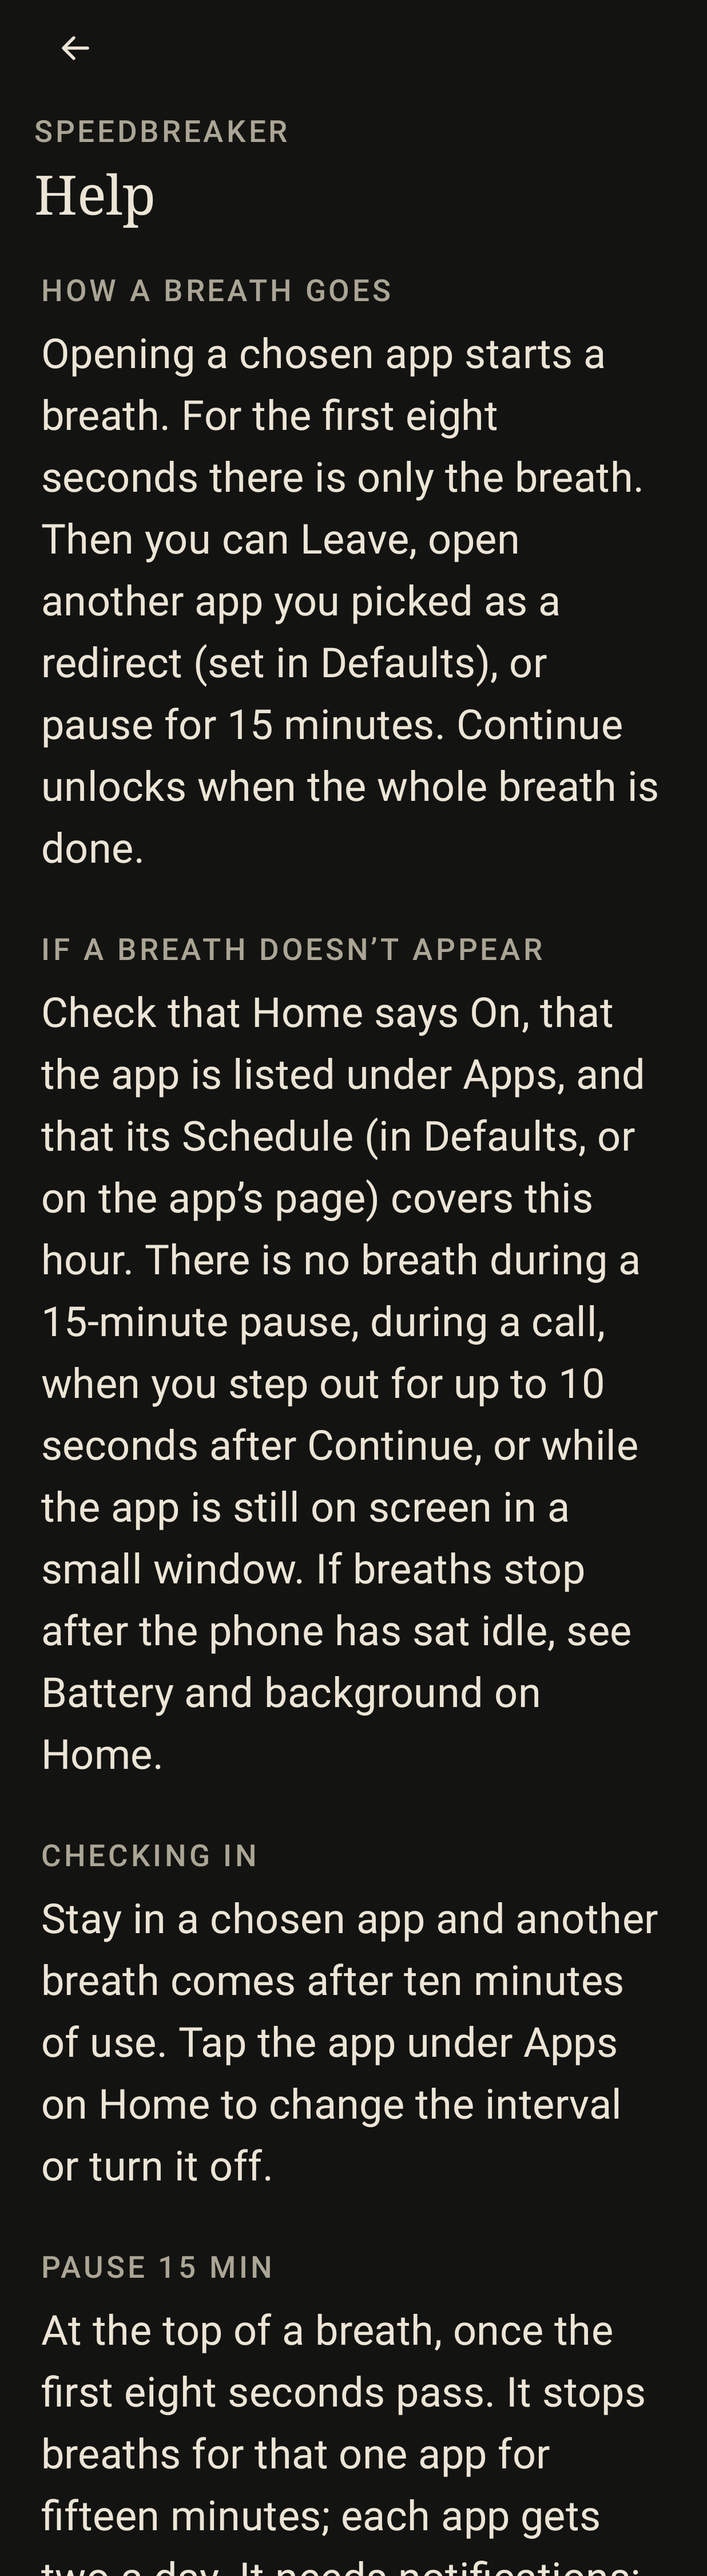
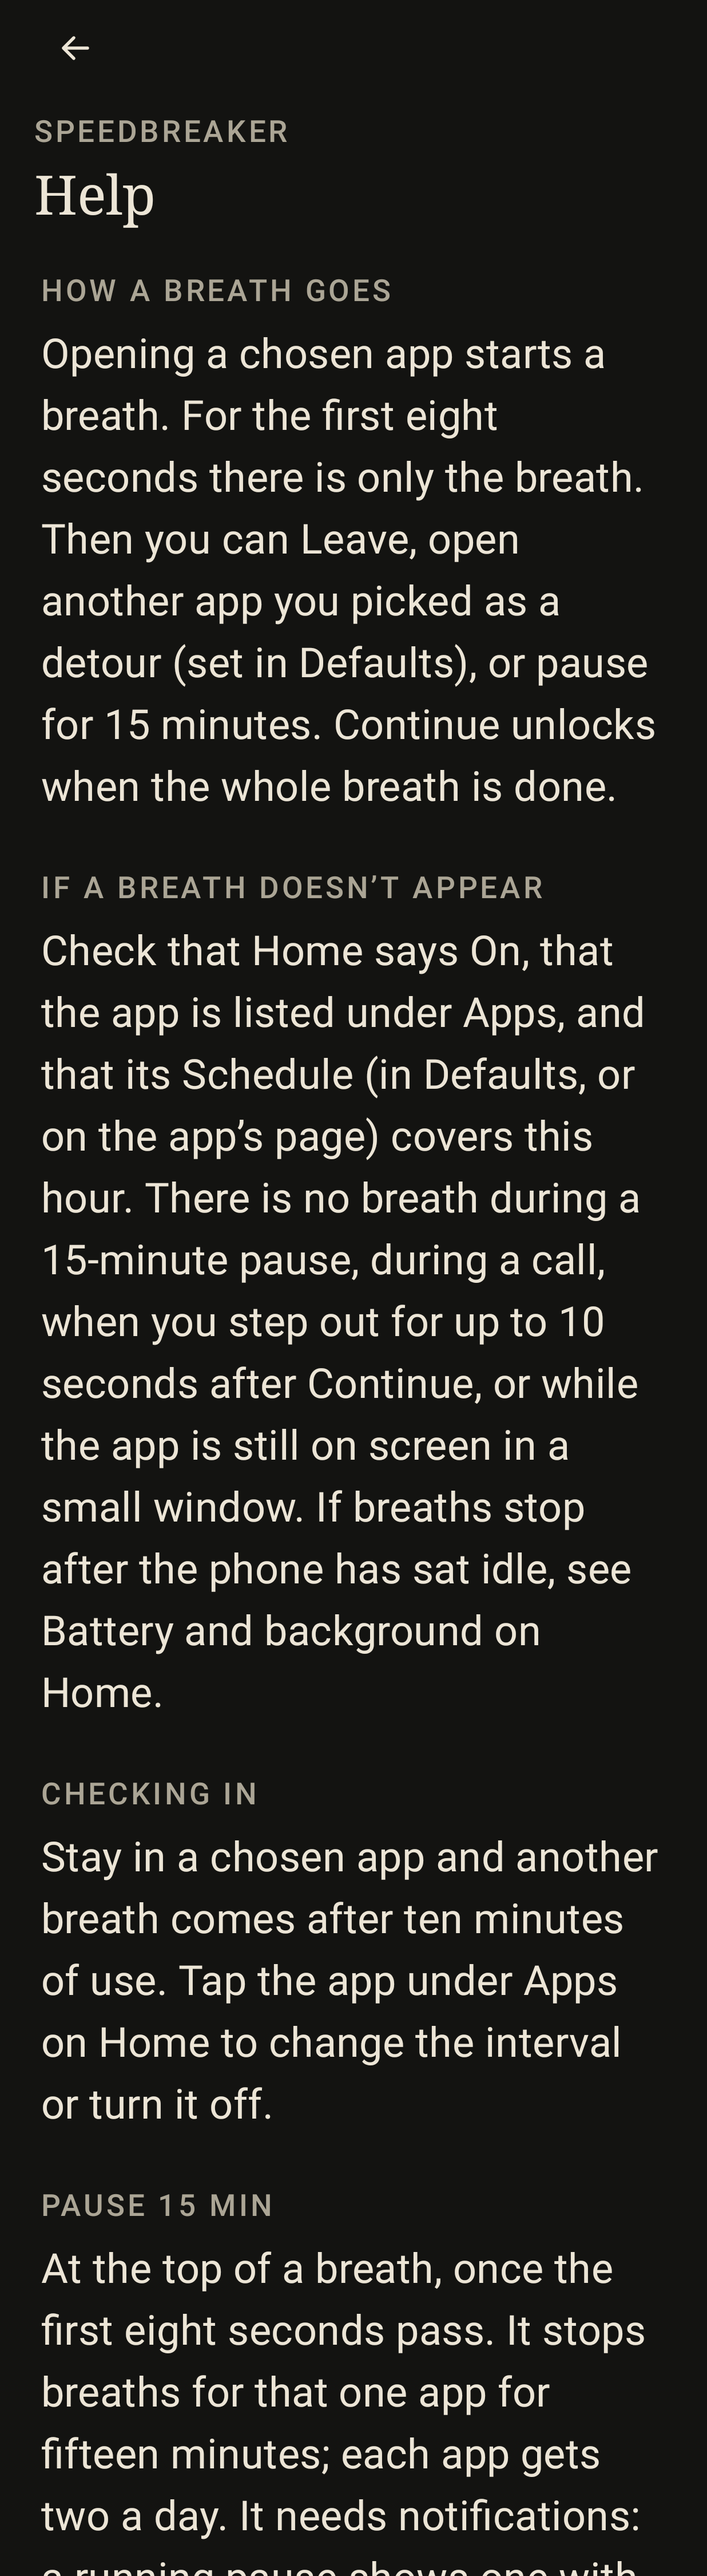
Name the service Speedbreaker and call redirects detours (#77)
* Name the service Speedbreaker and call redirects detours

The Accessibility entry is now the app's own name, the one a person looks
for in Android's list. Settings, summaries, Help and the guides say
Detours; the code and the saved settings keep `redirect`.

Closes #71. Not built locally: verified by hosted CI.

* docs: refresh gallery screenshots for the new names

Copied from the CI render of this branch.

* docs: name the service as older versions list it, and fix the Play packet step

Review on #77.

---------

Changed region(s): [[0.0615, 0.2489, 0.9223, 1.0]]

diff --git a/app/src/main/java/dev/burooj/speedbreaker/presentation/EditorScreens.kt b/app/src/main/java/dev/burooj/speedbreaker/presentation/EditorScreens.kt
@@ -73,7 +73,7 @@ internal fun DefaultsScreen(
     }
 
     Section(
-        title = "Redirects",
+        title = "Detours",
         footnote = "Up to four optional places to go instead, shown under Continue and Leave.",
     ) {
         RedirectSlots(settings.redirects, onRedirects)
@@ -188,11 +188,11 @@ internal fun AppSettingsScreen(
 
         val redirects = policy.redirects
         Section(
-            title = "Redirects",
+            title = "Detours",
             footnote = when {
-                redirects == null -> "Using the default redirects."
-                redirects.isEmpty() -> "No redirects for this app."
-                else -> "Replaces the default redirects for this app."
+                redirects == null -> "Using the default detours."
+                redirects.isEmpty() -> "No detours for this app."
+                else -> "Replaces the default detours for this app."
             },
         ) {
             ModeSwitch(
@@ -322,7 +322,7 @@ internal fun RedirectSlots(redirects: List<String>, onEdit: (() -> Unit)?) {
     if (onEdit != null) {
         RowDivider()
         NavRow(
-            title = if (filled.isEmpty()) "Choose redirect apps" else "Change redirects",
+            title = if (filled.isEmpty()) "Choose detour apps" else "Change detours",
             summary = "Choose up to four apps, or leave empty",
             onClick = onEdit,
         )

diff --git a/app/src/test/java/dev/burooj/speedbreaker/presentation/SummariesTest.kt b/app/src/test/java/dev/burooj/speedbreaker/presentation/SummariesTest.kt
@@ -8,7 +8,7 @@ import org.junit.Test
 class SummariesTest {
     @Test
     fun defaultsSummary_reportsEveryOptionalRedirectCount() {
-        val labels = listOf("no redirects", "1 redirect", "2 redirects", "3 redirects", "4 redirects")
+        val labels = listOf("no detours", "1 detour", "2 detours", "3 detours", "4 detours")
         for (count in 0..4) {
             val settings = dev.burooj.speedbreaker.model.Settings(redirects = (1..count).map { "alt.$it" })
             assertEquals("Always on · ${labels[count]}", defaultsSummary(settings, use24Hour = true))
@@ -23,7 +23,7 @@ class SummariesTest {
             schedule = startingSchedule(),
         )
         assertEquals("20-second breath", defaultsTitle(settings))
-        assertEquals("Weekdays · 09:00–17:00 · 1 redirect", defaultsSummary(settings, use24Hour = true))
+        assertEquals("Weekdays · 09:00–17:00 · 1 detour", defaultsSummary(settings, use24Hour = true))
     }
 
     @Test

diff --git a/app/src/main/java/dev/burooj/speedbreaker/presentation/SpeedbreakerApp.kt b/app/src/main/java/dev/burooj/speedbreaker/presentation/SpeedbreakerApp.kt
@@ -242,7 +242,7 @@ internal fun SpeedbreakerApp() {
                     },
                     onRedirects = {
                         redirectRequest = RedirectRequest(
-                            title = "Redirects",
+                            title = "Detours",
                             selected = settings.redirects,
                             transformFor = { value -> { current -> current.copy(redirects = value) } },
                         )
@@ -265,7 +265,7 @@ internal fun SpeedbreakerApp() {
                         },
                         onRedirects = { current ->
                             redirectRequest = RedirectRequest(
-                                title = "Redirects for this app",
+                                title = "Detours for this app",
                                 selected = current,
                                 transformFor = { value ->
                                     { settings ->

diff --git a/app/src/test/java/dev/burooj/speedbreaker/presentation/FlexibleRedirectsTest.kt b/app/src/test/java/dev/burooj/speedbreaker/presentation/FlexibleRedirectsTest.kt
@@ -45,7 +45,7 @@ class FlexibleRedirectsTest {
         var saved: List<String>? = null
         compose.setContent {
             SpeedbreakerTheme {
-                RedirectPickerScreen("Redirects", apps, emptyList(), onBack = {}, onSave = { saved = it })
+                RedirectPickerScreen("Detours", apps, emptyList(), onBack = {}, onSave = { saved = it })
             }
         }
         val list = compose.onNode(hasScrollToIndexAction())
@@ -65,7 +65,7 @@ class FlexibleRedirectsTest {
         var saved: List<String>? = null
         compose.setContent {
             SpeedbreakerTheme {
-                RedirectPickerScreen("Redirects", apps, apps.take(4).map { it.packageName }, onBack = {}, onSave = { saved = it })
+                RedirectPickerScreen("Detours", apps, apps.take(4).map { it.packageName }, onBack = {}, onSave = { saved = it })
             }
         }
         val list = compose.onNode(hasScrollToIndexAction())

diff --git a/app/src/main/java/dev/burooj/speedbreaker/presentation/PickerScreens.kt b/app/src/main/java/dev/burooj/speedbreaker/presentation/PickerScreens.kt
@@ -63,7 +63,7 @@ internal fun AppPickerScreen(
         title = "Choose apps",
         subtitle = "Pick the apps that pull at you. Each choice is saved as you tap. Your home screen, " +
             "keyboards, the phone app, and Android Settings aren’t listed. An app chosen here stops " +
-            "being a redirect.",
+            "being a detour.",
         query = query,
         onQuery = { query = it },
         onBack = onBack,
@@ -100,7 +100,7 @@ internal fun RedirectPickerScreen(
     val full = draft.size >= Redirects.MAX_COUNT
     PickerFrame(
         title = title,
-        subtitle = "Choose up to four places to go instead, or leave redirects empty.",
+        subtitle = "Choose up to four places to go instead, or leave detours empty.",
         query = query,
         onQuery = { query = it },
         onBack = onBack,

diff --git a/app/src/test/java/dev/burooj/speedbreaker/presentation/FirstRunTest.kt b/app/src/test/java/dev/burooj/speedbreaker/presentation/FirstRunTest.kt
@@ -54,7 +54,7 @@ class FirstRunTest {
         compose.onNodeWithText("Three steps to start").assertIsDisplayed()
         compose.onNodeWithContentDescription("Step 1 of 3, next. Turn on Speedbreaker in Accessibility").assertIsDisplayed()
         compose.onNodeWithContentDescription("Step 2 of 3, later. Allow Phone permission").assertExists()
-        compose.onNodeWithText("Speedbreaker attention pauses", substring = true).assertExists()
+        compose.onNodeWithText("find “Speedbreaker”", substring = true).assertExists()
         compose.onNodeWithText("Turn on in Accessibility").assertExists()
         // Later steps stay closed until their turn, and nothing reads as a fault.
         compose.onNodeWithText("make and manage phone calls", substring = true).assertDoesNotExist()

diff --git a/app/src/test/java/dev/burooj/speedbreaker/presentation/HelpScreenTest.kt b/app/src/test/java/dev/burooj/speedbreaker/presentation/HelpScreenTest.kt
@@ -58,7 +58,7 @@ class HelpScreenTest {
         }
         compose.onNodeWithText("IF A BREATH DOESN’T APPEAR").assertExists()
         compose.onNodeWithText("SWITCH IT OFF").assertExists()
-        compose.onNodeWithText("Speedbreaker attention pauses", substring = true).assertExists()
+        compose.onNodeWithText("Turn off “Speedbreaker”", substring = true).assertExists()
         compose.onNodeWithText("Speedbreaker 9.9.9").assertExists()
         // Back first: it sits at the top and scrolls out of reach once the rows below are shown.
         compose.onNodeWithContentDescription("Back").performClick()

diff --git a/app/src/main/java/dev/burooj/speedbreaker/presentation/HelpScreen.kt b/app/src/main/java/dev/burooj/speedbreaker/presentation/HelpScreen.kt
@@ -32,7 +32,7 @@ internal fun HelpScreen(
     HelpTopic(
         heading = "How a breath goes",
         body = "Opening a chosen app starts a breath. For the first eight seconds there is only the breath. " +
-            "Then you can Leave, open another app you picked as a redirect (set in Defaults), or pause " +
+            "Then you can Leave, open another app you picked as a detour (set in Defaults), or pause " +
             "for 15 minutes. Continue unlocks when the whole breath is done.",
     )
     HelpTopic(

diff --git a/app/src/main/java/dev/burooj/speedbreaker/presentation/Summaries.kt b/app/src/main/java/dev/burooj/speedbreaker/presentation/Summaries.kt
@@ -79,9 +79,9 @@ internal fun defaultsTitle(settings: Settings): String = "${settings.breathSecon
 internal fun defaultsSummary(settings: Settings, use24Hour: Boolean): String {
     val count = settings.redirects.size
     val redirects = when (count) {
-        0 -> "no redirects"
-        1 -> "1 redirect"
-        else -> "$count redirects"
+        0 -> "no detours"
+        1 -> "1 detour"
+        else -> "$count detours"
     }
     return "${scheduleSummary(settings.schedule, use24Hour)} · $redirects"
 }

diff --git a/app/src/main/java/dev/burooj/speedbreaker/presentation/Previews.kt b/app/src/main/java/dev/burooj/speedbreaker/presentation/Previews.kt
@@ -107,7 +107,7 @@ internal val Gallery: List<GallerySpec> = listOf(
     GallerySpec("settings-05-redirect-picker") {
         Screen {
             RedirectPickerScreen(
-                title = "Redirects",
+                title = "Detours",
                 apps = SampleApps.filter { it.packageName !in SampleSettings.apps },
                 initial = listOf(KINDLE, NOTES, DUOLINGO),
                 onBack = {},

diff --git a/app/src/test/java/dev/burooj/speedbreaker/presentation/PickerReachabilityTest.kt b/app/src/test/java/dev/burooj/speedbreaker/presentation/PickerReachabilityTest.kt
@@ -79,7 +79,7 @@ class PickerReachabilityTest {
         var wentBack = false
         setPickerContent {
             RedirectPickerScreen(
-                title = "Redirects for this app",
+                title = "Detours for this app",
                 apps = apps,
                 initial = initial,
                 onBack = { wentBack = true },

diff --git a/scripts/build_public_site.py b/scripts/build_public_site.py
@@ -99,7 +99,7 @@ Then continue, leave, or open somewhere else. Optional check-ins bring the pause
 no store availability is claimed.</p><h2>What the pause does</h2>
 <p>The first eight seconds hold ordinary navigation. Settings and Android-reported calls yield.
 Breaths stay off without Phone permission. Calling apps exposing neither Android call state nor communication audio
-may not be detected. You choose every target and optional redirect.</p>
+may not be detected. You choose every target and optional detour.</p>
 <p>No account, ads, analytics or per-app usage history. Settings, pause state and a resettable total of time breathed stay on the phone.</p>''')
     page("privacy.html", "Privacy policy",
          "What Speedbreaker observes, what stays on your phone, and the permissions it asks for.",
@@ -107,7 +107,7 @@ may not be detected. You choose every target and optional redirect.</p>
     page("support.html", "Setup and support",
          "Set up Speedbreaker, turn it off, and report a problem.", f'''
 <h1>Help with Speedbreaker</h1><p><a href="{REPO}/blob/main/docs/getting-started.md">Setup and troubleshooting</a></p>
-<p>You can stop observation in Android Settings → Accessibility → Speedbreaker attention pauses.
+<p>You can stop observation in Android Settings → Accessibility → Speedbreaker.
 Clear app storage or uninstall to remove local settings and pause state.</p>
 <h2>Report a problem</h2><p><a href="{REPO}/issues/new/choose">Open a public GitHub issue</a> with your phone model,
 Android/app versions, steps and what happened. Remove personal details from screenshots and logs.</p>
